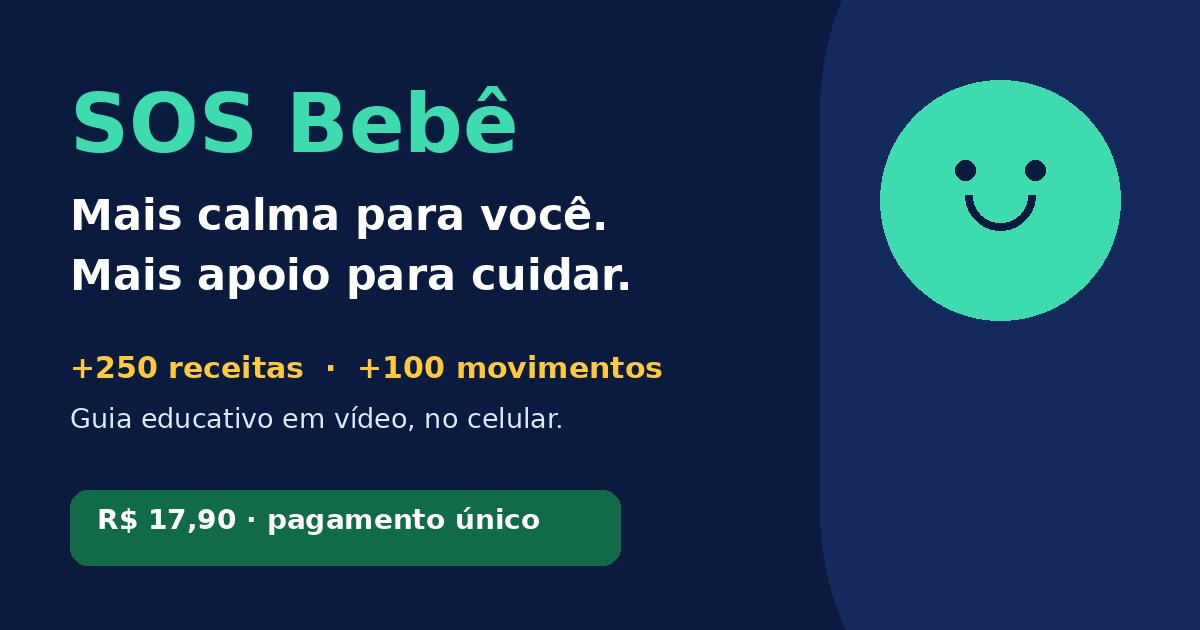
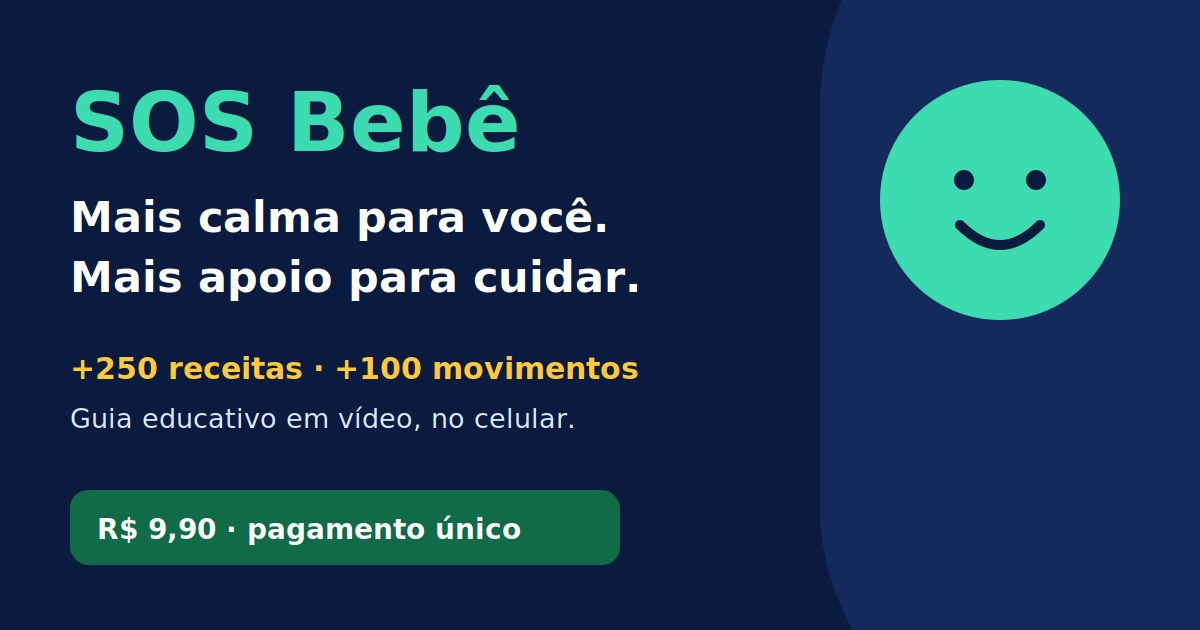
Update SOS Bebê price to R$9.90 across page, tracking and sharing assets

diff --git a/src/pages/Quiz.tsx b/src/pages/Quiz.tsx
@@ -23,7 +23,7 @@ function CheckoutLink({ children = "QUERO O SOS BEBÊ AGORA", location }: { chil
   };
   return <a className="sos-cta" href={sosOffer.checkout} onClick={checkout} data-checkout-cta={location}><span>{children}</span><ArrowRight size={21} aria-hidden="true" /></a>;
 }
-function PurchaseNote() { return <p className="micro">Pagamento único de R$ 17,90 · Acesso após confirmar o pagamento · Garantia de 7 dias</p>; }
+function PurchaseNote() { return <p className="micro">Pagamento único de R$ 9,90 · Acesso após confirmar o pagamento · Garantia de 7 dias</p>; }
 function Title({ label, children }: { label?: string; children: ReactNode }) { return <header className="section-title">{label && <span className="eyebrow">{label}</span>}<h2>{children}</h2></header>; }
 function Section({ children, className = "", id }: { children: ReactNode; className?: string; id?: string }) { return <section className={`section ${className}`} id={id}><div className="wrap reveal">{children}</div></section>; }
 
@@ -55,7 +55,7 @@ function ReadingProgress() {
       const available = document.documentElement.scrollHeight - window.innerHeight;
       const ratio = available > 0 ? Math.min(1, Math.max(0, window.scrollY / available)) : 0;
       if (bar.current) bar.current.style.transform = `scaleX(${ratio})`;
-      if (!sent && ratio >= .5) { sent = true; try { trackStandard("ViewContent", { content_name: sosOffer.name, content_type: "product", value: 17.90, currency: "BRL" }); } catch { /* Analytics cannot block reading. */ } }
+      if (!sent && ratio >= .5) { sent = true; try { trackStandard("ViewContent", { content_name: sosOffer.name, content_type: "product", value: 9.90, currency: "BRL" }); } catch { /* Analytics cannot block reading. */ } }
     };
     const schedule = () => { if (!frame) frame = requestAnimationFrame(update); };
     window.addEventListener("scroll", schedule, { passive: true });
@@ -92,7 +92,7 @@ function StickyCheckout() {
     return () => observer.disconnect();
   }, []);
   if (!visible) return null;
-  return <aside className="sticky-buy" aria-label="Ver oferta SOS Bebê"><div><b>SOS Bebê</b><span>R$ 17,90</span></div><OfferLink location="sticky">VER OFERTA</OfferLink></aside>;
+  return <aside className="sticky-buy" aria-label="Ver oferta SOS Bebê"><div><b>SOS Bebê</b><span>R$ 9,90</span></div><OfferLink location="sticky">VER OFERTA</OfferLink></aside>;
 }
 function ExitOffer() {
   const [open, setOpen] = useState(false);
@@ -115,7 +115,7 @@ function Identification() {
 const faq = [
   ["Como recebo o acesso?", "Logo após a confirmação do pagamento, você recebe as instruções de acesso por e-mail."],
   ["Funciona pelo celular?", "Sim, celular, tablet ou computador."],
-  ["É pagamento único?", "Sim, R$ 17,90, sem mensalidade."],
+  ["É pagamento único?", "Sim, R$ 9,90, sem mensalidade."],
   ["Serve para recém-nascido?", "A adequação depende do conteúdo e da idade. Converse sempre com o pediatra. Não ofereça receitas, chás ou outros preparos a recém-nascidos por conta própria."],
   ["Substitui o pediatra ou o remédio?", "Não. É um conteúdo educativo e complementar de apoio. Em caso de dúvida ou sinal de alerta, procure atendimento médico. Não interrompa um tratamento prescrito."],
   ["Os vídeos são fáceis de seguir?", "São apresentados passo a passo, com uma organização simples para mães, pais e responsáveis."],
@@ -138,11 +138,11 @@ export default function SalesPage() {
     <Section><Title label="Os dois pilares">Dois pilares. Uma só plataforma.</Title><div className="grid two pillars"><article className="card"><Soup size={40}/><div className="big-number"><Count value={250}/></div><h3>RECEITAS CASEIRAS</h3><p>Ingredientes, preparo, faixa etária e cuidados, em vídeo. <strong>Consulte o pediatra antes de oferecer qualquer preparo.</strong></p></article><article className="card"><HandHeart size={40}/><div className="big-number"><Count value={100}/></div><h3>MOVIMENTOS EM VÍDEO</h3><p>Posições e movimentos de apoio para acolher o bebê nos momentos difíceis, respeitando seus limites e os cuidados de cada idade.</p></article></div><p className="statement">Tudo organizado para você encontrar o assunto <strong>sem ficar procurando por horas.</strong></p></Section>
     <Section className="cream" id="desejo"><div className="split"><FamilyScene variant="morning"/><div><Title label="Mais calma. Mais confiança.">Imagine a próxima vez que ele chorar…</Title><ul className="check-list">{["Em vez de se perder nos palpites, você respira e abre seu guia", "Sabe onde encontrar o assunto que está procurando", "Vê o passo a passo e entende os cuidados", "Reconhece seus limites e quando é hora de buscar ajuda", "Se sente mais acompanhada no cuidado com seu bebê"].map(text=><li key={text}><Check/>{text}</li>)}</ul><p><strong>Essa é a sensação de ter um apoio organizado ao seu lado.</strong></p><OfferLink location="after-desire"/></div></div></Section>
     <Section><Title label="Seu pacote completo">O que você vai receber</Title><div className="grid three">{includes.map(([title,text],i)=>{const Icon=[Soup,HandHeart,Baby,Search,Smartphone,Play][i];return <article className="card deliverable" key={title}><span className="numbered-icon"><Icon/></span><h3>{title}</h3><p>{text}</p></article>;})}</div>{sosOffer.bonuses.length>0&&<ul className="check-list">{sosOffer.bonuses.map(text=><li key={text}><Check/>{text}</li>)}</ul>}</Section>
-    <Section className="sky"><Title label="Uma escolha mais clara">Continuar no improviso vs. ter tudo em um só lugar</Title><div className="comparison"><table><caption className="sr-only">Comparação entre buscar dicas dispersas e usar o SOS Bebê</caption><thead><tr><th scope="col">No dia a dia</th><th scope="col">Dicas soltas</th><th scope="col">SOS Bebê</th></tr></thead><tbody>{["Guia criado pela Dra. Valentina", "Passo a passo em vídeo", "Receitas + movimentos juntos", "Organizado por situação", "Um ponto de partida para consultar", "Acesso centralizado no celular"].map(text=><tr key={text}><th scope="row">{text}</th><td><span aria-label="Varia conforme a fonte">—</span></td><td><Check aria-label="Incluído"/></td></tr>)}<tr><th scope="row">Custo</th><td>Varia por fonte e tentativa</td><td><b>R$ 17,90</b><br/>Pagamento único</td></tr></tbody></table></div></Section>
+    <Section className="sky"><Title label="Uma escolha mais clara">Continuar no improviso vs. ter tudo em um só lugar</Title><div className="comparison"><table><caption className="sr-only">Comparação entre buscar dicas dispersas e usar o SOS Bebê</caption><thead><tr><th scope="col">No dia a dia</th><th scope="col">Dicas soltas</th><th scope="col">SOS Bebê</th></tr></thead><tbody>{["Guia criado pela Dra. Valentina", "Passo a passo em vídeo", "Receitas + movimentos juntos", "Organizado por situação", "Um ponto de partida para consultar", "Acesso centralizado no celular"].map(text=><tr key={text}><th scope="row">{text}</th><td><span aria-label="Varia conforme a fonte">—</span></td><td><Check aria-label="Incluído"/></td></tr>)}<tr><th scope="row">Custo</th><td>Varia por fonte e tentativa</td><td><b>R$ 9,90</b><br/>Pagamento único</td></tr></tbody></table></div></Section>
     <Section className="cream"><Title label="Para quem é">Você não precisa saber tudo. Só não precisa ficar sem apoio.</Title><div className="grid four audience">{["Mãe ou pai de primeira viagem", "Quem se sente inseguro com o bebê", "Quem teme a próxima crise de choro", "Quem cansou de dicas contraditórias"].map(text=><div className="card" key={text}><Heart/><h3>{text}</h3></div>)}</div></Section>
     <Section className="safety" id="seguranca"><div className="safety-card"><ShieldCheck size={44}/><div><Title>O cuidado com o seu bebê vem em primeiro lugar</Title><p>O SOS Bebê é um <strong>conteúdo educativo e complementar</strong>. Não substitui consulta, diagnóstico ou tratamento médico. A adequação de cada conteúdo depende da faixa etária e da orientação do pediatra.</p><p><strong>Em caso de febre, dificuldade para respirar, engasgo, vômitos persistentes, recusa em se alimentar, sonolência excessiva, choro muito diferente do habitual ou qualquer sinal que te preocupe, procure atendimento médico imediatamente.</strong></p><p>Não ofereça chás, receitas ou outros preparos ao bebê por conta própria. Não faça manobras para estimular a evacuação sem orientação profissional. Converse sempre com o pediatra do seu bebê.</p></div></div></Section>
     {sosOffer.testimonials.length>=3&&<Section><Title>Famílias que compartilharam sua experiência</Title><div className="grid three">{sosOffer.testimonials.map(t=><figure className="card" key={t.name}><img src={t.image} alt={t.name} width={72} height={72} loading="lazy"/><blockquote>{t.quote}</blockquote><figcaption>{t.name} · {t.city}</figcaption></figure>)}</div></Section>}
-    <Section className="dark offer-section" id="oferta"><div className="offer-grid"><div><span className="pill yellow">CONDIÇÃO ESPECIAL DE LANÇAMENTO</span><Title>Um guia inteiro.<br/><mark>Ao alcance da sua mão.</mark></Title><p>Mais de 350 conteúdos em vídeo, organizados para apoiar sua rotina. Sem juntar dicas espalhadas. Sem mensalidade.</p><div className="stack-visual" aria-label="Pacote SOS Bebê"><div><Soup/><strong>+250 receitas</strong><span>Preparo, cuidados e faixa etária</span></div><div><HandHeart/><strong>+100 movimentos em vídeo</strong><span>Apoio para os momentos difíceis</span></div><div><Smartphone/><strong>Seu guia no celular</strong><span>Arroto, posições, cocô e cólica</span></div></div></div><div className="offer-card"><Baby size={34}/><span className="eyebrow">SOS Bebê · Pacote completo</span><h3>Seu próximo passo para cuidar com mais confiança.</h3><ul className="check-list">{["+250 receitas caseiras em vídeo", "+100 movimentos em vídeo", "Organização por situação", "Acesso pelo celular", "Garantia de 7 dias"].map(text=><li key={text}><Check/>{text}</li>)}</ul><p className="price-label">Hoje por apenas</p><div className="price"><span>R$</span>17<small>,90</small></div><p className="price-note">Pagamento único · Sem mensalidade</p><p className="order-total">Total com taxa de serviço: <strong>R$ 18,89</strong></p><p className="per-video"><b>Menos de 6 centavos por conteúdo.</b><br/>Um apoio que você pode consultar no dia a dia.</p>{sosOffer.priceChangeNotice&&<p className="price-alert">{sosOffer.priceChangeNotice}</p>}<CheckoutLink location="offer"/><p className="secure"><LockKeyhole size={15}/>Pagamento seguro</p>{sosOffer.paymentMethods.length>0&&<p className="micro payment-methods">{sosOffer.paymentMethods.join(" · ")}</p>}<PurchaseNote/></div></div></Section>
+    <Section className="dark offer-section" id="oferta"><div className="offer-grid"><div><span className="pill yellow">CONDIÇÃO ESPECIAL DE LANÇAMENTO</span><Title>Um guia inteiro.<br/><mark>Ao alcance da sua mão.</mark></Title><p>Mais de 350 conteúdos em vídeo, organizados para apoiar sua rotina. Sem juntar dicas espalhadas. Sem mensalidade.</p><div className="stack-visual" aria-label="Pacote SOS Bebê"><div><Soup/><strong>+250 receitas</strong><span>Preparo, cuidados e faixa etária</span></div><div><HandHeart/><strong>+100 movimentos em vídeo</strong><span>Apoio para os momentos difíceis</span></div><div><Smartphone/><strong>Seu guia no celular</strong><span>Arroto, posições, cocô e cólica</span></div></div></div><div className="offer-card"><Baby size={34}/><span className="eyebrow">SOS Bebê · Pacote completo</span><h3>Seu próximo passo para cuidar com mais confiança.</h3><ul className="check-list">{["+250 receitas caseiras em vídeo", "+100 movimentos em vídeo", "Organização por situação", "Acesso pelo celular", "Garantia de 7 dias"].map(text=><li key={text}><Check/>{text}</li>)}</ul><p className="price-label">Hoje por apenas</p><div className="price"><span>R$</span>9<small>,90</small></div><p className="price-note">Pagamento único · Sem mensalidade</p><p className="order-total">Total com taxa de serviço: <strong>R$ 10,89</strong></p><p className="per-video"><b>Menos de 6 centavos por conteúdo.</b><br/>Um apoio que você pode consultar no dia a dia.</p>{sosOffer.priceChangeNotice&&<p className="price-alert">{sosOffer.priceChangeNotice}</p>}<CheckoutLink location="offer"/><p className="secure"><LockKeyhole size={15}/>Pagamento seguro</p>{sosOffer.paymentMethods.length>0&&<p className="micro payment-methods">{sosOffer.paymentMethods.join(" · ")}</p>}<PurchaseNote/></div></div></Section>
     <Section className="cream"><div className="guarantee"><div className="guarantee-seal"><ShieldCheck size={48}/><b>7</b><span>DIAS</span></div><div><Title>Entre e veja com calma.<br/>Você tem 7 dias de garantia.</Title><p>Se não for o que você esperava, solicite o reembolso dentro de 7 dias pelos canais da compra.</p></div></div></Section>
     <Section className="cream faq"><Title label="Dúvidas frequentes">Para começar sem dúvidas</Title><div className="faq-list">{faq.map(([q,a])=><details key={q}><summary>{q}<ChevronDown size={21}/></summary><p>{a}</p></details>)}</div></Section>
     <Section className="dark final"><Baby size={38}/><Title>A próxima noite difícil pode ser hoje. <mark>Tenha um apoio ao seu lado.</mark></Title><p>Na tela do seu celular, um guia organizado para os momentos em que você mais precisa de clareza.</p><OfferLink location="final">VER A OFERTA ↑</OfferLink><PurchaseNote/><p className="micro">Conteúdo educativo. O pediatra continua sendo sua referência.</p></Section>

diff --git a/index.html b/index.html
@@ -9,15 +9,15 @@
     <link rel="icon" type="image/svg+xml" href="/sos-bebe.svg" />
     <meta name="theme-color" content="#0B1B3F" />
     <title>SOS Bebê – Guia Completo da Dra. Valentina</title>
-    <meta name="description" content="Seu apoio em vídeo para cuidar do bebê com mais confiança. +250 receitas e +100 movimentos, organizados por situação. R$ 17,90, pagamento único." />
+    <meta name="description" content="Seu apoio em vídeo para cuidar do bebê com mais confiança. +250 receitas e +100 movimentos, organizados por situação. R$ 9,90, pagamento único." />
     <meta property="og:type" content="website" />
     <meta property="og:title" content="SOS Bebê – Guia Completo da Dra. Valentina" />
-    <meta property="og:description" content="Escolha, assista, faça. Um guia educativo no celular para mães e pais de primeira viagem. R$ 17,90." />
-    <meta property="og:image" content="https://nosufrasparateneratubebe.lovable.app/sos-social.jpg" />
+    <meta property="og:description" content="Escolha, assista, faça. Um guia educativo no celular para mães e pais de primeira viagem. R$ 9,90." />
+    <meta property="og:image" content="https://nosufrasparateneratubebe.lovable.app/sos-social-990.jpg" />
     <meta name="twitter:card" content="summary_large_image" />
     <meta name="twitter:title" content="SOS Bebê – Guia Completo da Dra. Valentina" />
     <meta name="twitter:description" content="Mais clareza e confiança para cuidar do bebê. Seu guia educativo no celular." />
-    <meta name="twitter:image" content="https://nosufrasparateneratubebe.lovable.app/sos-social.jpg" />
+    <meta name="twitter:image" content="https://nosufrasparateneratubebe.lovable.app/sos-social-990.jpg" />
 
     <!-- Meta Pixel Code -->
     <script>

diff --git a/src/pages/Quiz.test.tsx b/src/pages/Quiz.test.tsx
@@ -28,7 +28,7 @@ describe("reading and exit-intent behavior", () => {
     expect(trackStandard).not.toHaveBeenCalled();
     vi.stubGlobal("scrollY", 700);
     act(() => { fireEvent.scroll(window); queued?.(1); });
-    expect(trackStandard).toHaveBeenCalledWith("ViewContent", expect.objectContaining({value:17.90,currency:"BRL"}));
+    expect(trackStandard).toHaveBeenCalledWith("ViewContent", expect.objectContaining({value:9.90,currency:"BRL"}));
     act(() => { fireEvent.scroll(window); queued?.(2); });
     expect(trackStandard).toHaveBeenCalledOnce();
   });

diff --git a/src/lib/birthCheckout.test.ts b/src/lib/birthCheckout.test.ts
@@ -11,7 +11,7 @@ describe("birth checkout attribution and event delivery", () => {
   it("emits checkout before navigating and gives the pixel 150ms", () => {
     const navigate = vi.fn();
     beginBirthCheckout("https://pay.cakto.com.br/gwvroes_1229714", navigate);
-    expect(trackInitiateCheckout).toHaveBeenCalledWith(17.90);
+    expect(trackInitiateCheckout).toHaveBeenCalledWith(9.90);
     vi.advanceTimersByTime(149);
     expect(navigate).not.toHaveBeenCalled();
     vi.advanceTimersByTime(1);

diff --git a/src/lib/birthCheckout.ts b/src/lib/birthCheckout.ts
@@ -12,6 +12,6 @@ export function checkoutDestination(href: string, search: string) {
 }
 
 export function beginBirthCheckout(destination: string, navigate: (url: string) => void) {
-  try { trackInitiateCheckout(17.90); } catch { /* Blocked analytics must never block checkout. */ }
+  try { trackInitiateCheckout(9.90); } catch { /* Blocked analytics must never block checkout. */ }
   return window.setTimeout(() => navigate(destination), 150);
 }

diff --git a/src/data/sosOffer.ts b/src/data/sosOffer.ts
@@ -2,7 +2,7 @@
 export const sosOffer = {
   name: "SOS Bebê – Guia Completo da Dra. Valentina",
   checkout: "https://pay.cakto.com.br/gwvroes_1229714",
-  price: 17.90,
+  price: 9.90,
   guaranteeDays: 7,
   doctorPhoto: "/images/dra-valentina.webp" as string | null, // Supplied portrait; keep source watermark intact.
   doctorCredentials: null as string | null, // [PLACEHOLDER] validated specialty, CRM and experience

diff --git a/src/lib/metaPixel.ts b/src/lib/metaPixel.ts
@@ -50,7 +50,7 @@ export const trackStandard = (
   void sendToServer(eventName, id, customData);
 };
 
-export const trackInitiateCheckout = (value = 17.90) => {
+export const trackInitiateCheckout = (value = 9.90) => {
   trackStandard("InitiateCheckout", {
     value,
     currency: "BRL",

diff --git a/docs/SOS_BEBE_EDITING.md b/docs/SOS_BEBE_EDITING.md
@@ -2,14 +2,14 @@
 
 A página principal foi substituída pela oferta SOS Bebê, em português do Brasil.
 Checkout: https://pay.cakto.com.br/gwvroes_1229714
-Preço anunciado: R$ 17,90, pagamento único. Confira o mesmo preço no painel da Cakto.
+Preço anunciado: R$ 9,90, pagamento único. Confira o mesmo preço no painel da Cakto.
 
 ## Campos pendentes
 Edite `src/data/sosOffer.ts`. Os campos não confirmados não são publicados como fatos:
 - `doctorPhoto`: usa o retrato enviado no commit e21e92b, otimizado em /images/dra-valentina.webp. O arquivo original contém marca d’água, preservada. Substitua por uma foto autorizada de melhor qualidade quando disponível.
 - `doctorCredentials`: especialidade, CRM e experiência confirmados.
 - `accessDuration`: prazo real do acesso (a pergunta só aparece após preencher).
-- `paymentMethods`: Pix, cartão e PicPay, confirmados no checkout. A oferta mostra apenas o total com taxa de serviço de R$ 18,89, sem expor o nome do processador ou o detalhamento operacional. Atualize esse total caso a plataforma altere a taxa.
+- `paymentMethods`: Pix, cartão e PicPay, confirmados no checkout. A oferta mostra apenas o total com taxa de serviço de R$ 10,89, sem expor o nome do processador ou o detalhamento operacional. Atualize esse total caso a plataforma altere a taxa.
 - `contactEmail`, `privacyText`, `termsText`: contato e textos jurídicos aprovados pelo responsável. Os modais atuais avisam que os documentos estão em preparação.
 - `testimonials`: depoimentos autorizados com nome, cidade, imagem e texto. A seção só aparece com pelo menos três.
 - `bonuses`: somente bônus realmente entregues.
@@ -20,7 +20,7 @@ A foto real deve ser WebP, idealmente até 80 KB, com corte adequado ao círculo
 ## Rastreamento
 O Meta Pixel original 2149847235657959 continua no index.html com PageView.
 ViewContent dispara uma vez ao atingir 50% do trecho rolável.
-Somente o botão no card da oferta dispara InitiateCheckout com value 17.9 e currency BRL e redireciona à Cakto após 150 ms, na mesma aba. Os quatro links de rolagem e a barra mobile disparam ClickParaOferta com o parâmetro local e rolam à oferta. O lembrete desktop fala sobre insegurança e o botão somente fecha o modal para continuar a leitura, sem preço, sem oferta e sem redirecionamento.
+Somente o botão no card da oferta dispara InitiateCheckout com value 9.9 e currency BRL e redireciona à Cakto após 150 ms, na mesma aba. Os quatro links de rolagem e a barra mobile disparam ClickParaOferta com o parâmetro local e rolam à oferta. O lembrete desktop fala sobre insegurança e o botão somente fecha o modal para continuar a leitura, sem preço, sem oferta e sem redirecionamento.
 A VSL dispara VSL_Play, VSL_25, VSL_50, VSL_75 e VSL_Complete uma vez por marco enquanto o componente permanece montado. A conclusão é registrada na sessão; a opção de fechar fica disponível em todas as reproduções desde o início.
 A query string inteira é anexada, sem substituir parâmetros já presentes no checkout. Não há disparo de Purchase na landing page.
 A integração existente com meta-capi foi preservada; não foram adicionados tokens no frontend.
